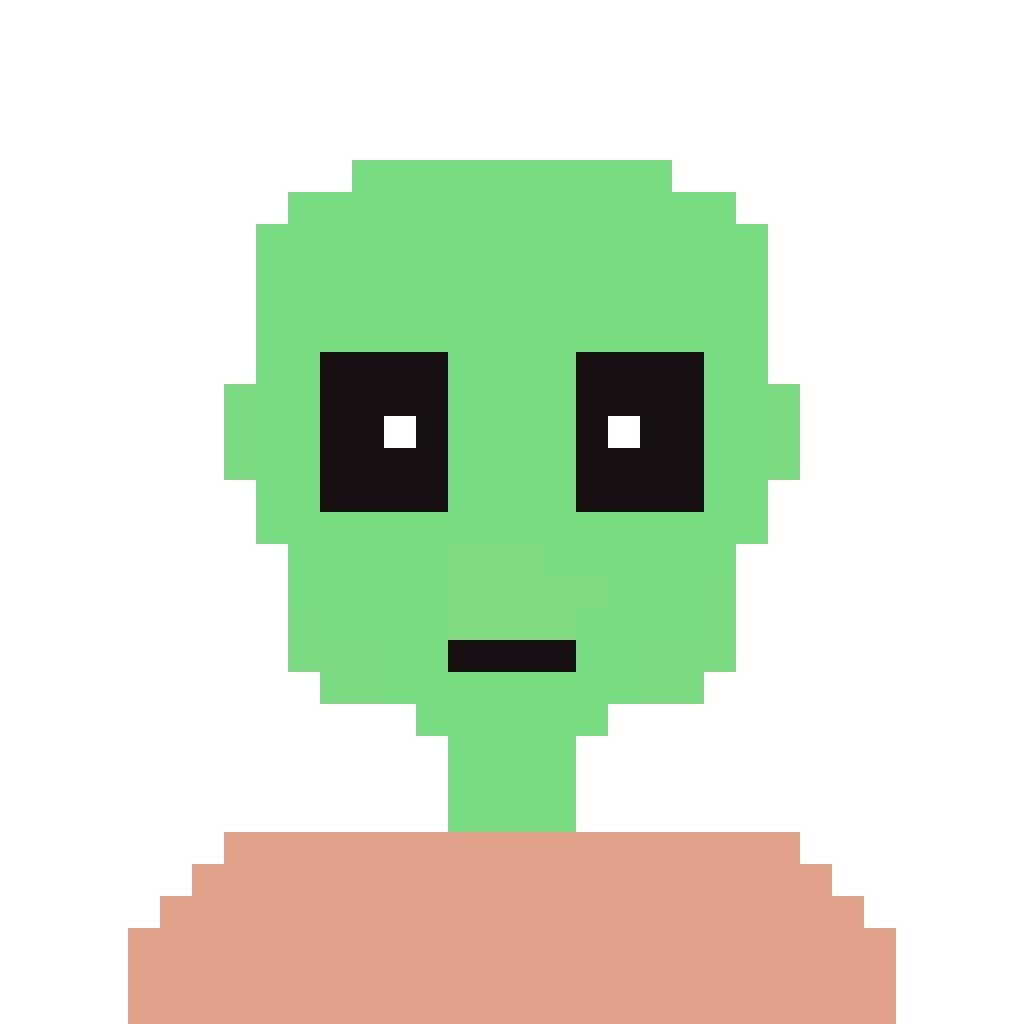
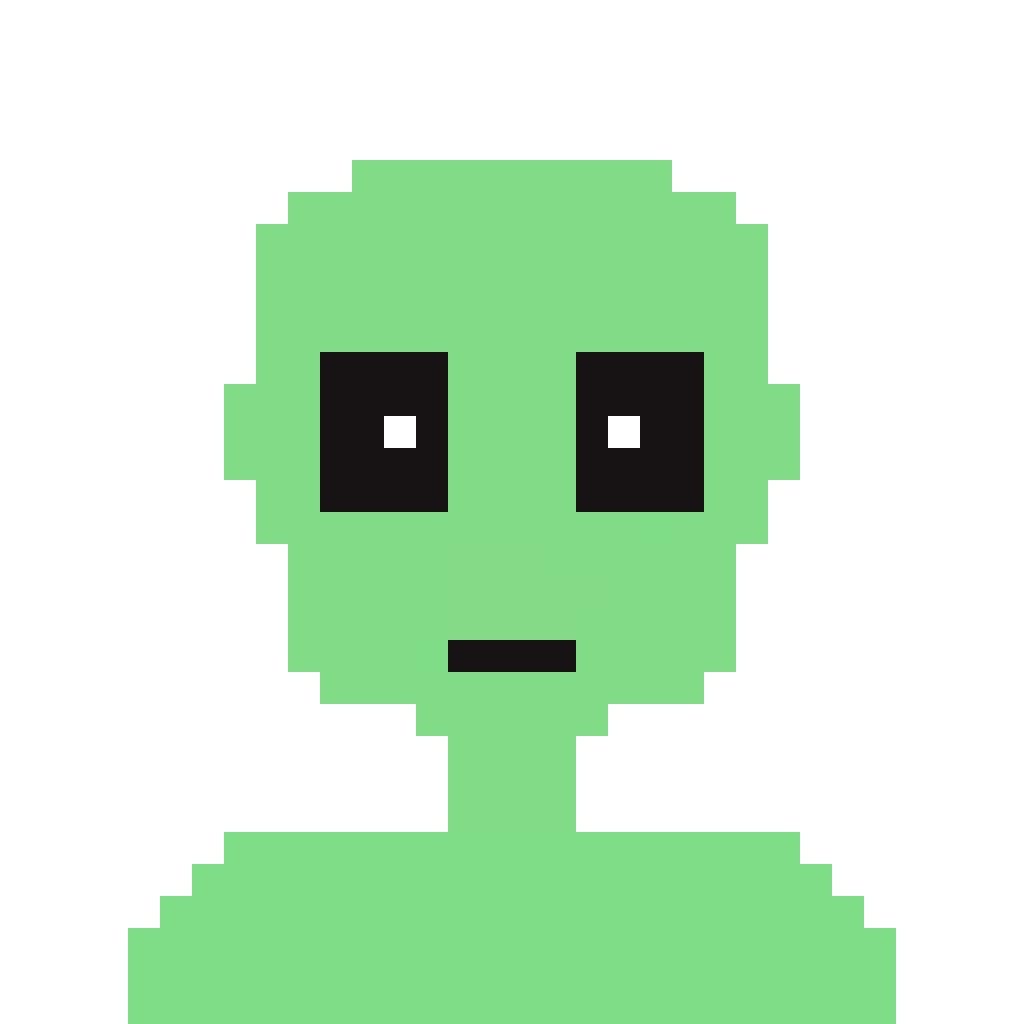
Add files via upload

Changed region(s): [[0.125, 0.8125, 0.875, 1.0]]

diff --git a/app/globals.css b/app/globals.css
@@ -23,11 +23,12 @@
 /* Pre-mint classified transmission. The complete post-mint site remains above and
    can be restored with NEXT_PUBLIC_SITE_PHASE=postmint. */
 .premint-site{min-height:100vh;background:radial-gradient(circle at 74% 9%,#1a1249 0,transparent 30%),radial-gradient(circle at 24% 72%,#052c2b 0,transparent 28%),#030611}.premint-header{height:70px;display:grid;grid-template-columns:1fr auto 1fr;align-items:center;padding:0 clamp(20px,4vw,64px);border-bottom:1px solid #1d2d45;background:#030611e8;position:relative;z-index:20}.premint-header>div{color:#71869d;font-size:9px;letter-spacing:.12em}.signal-dot{display:inline-block;width:7px;height:7px;margin-right:8px;background:var(--green);box-shadow:0 0 14px var(--green);animation:signal-pulse 1.1s steps(2) infinite}.premint-header>a:last-child{justify-self:end;color:var(--green);font-size:9px;font-weight:900;letter-spacing:.08em}
-.premint-hero{min-height:720px;max-width:1450px;margin:auto;padding:72px clamp(22px,6vw,88px) 88px;display:grid;grid-template-columns:1.06fr .94fr;gap:6vw;align-items:center;position:relative}.classified-grid{position:absolute;inset:0;opacity:.22;background-image:linear-gradient(#22dff310 1px,transparent 1px),linear-gradient(90deg,#22dff310 1px,transparent 1px),radial-gradient(#fff 1px,transparent 1px);background-size:56px 56px,56px 56px,139px 139px;mask-image:linear-gradient(to bottom,#000,transparent)}.premint-copy,.premint-agent{position:relative;z-index:2}.premint-copy .lead{max-width:590px}.primary.disabled{opacity:.46;cursor:not-allowed;box-shadow:none}.premint-agent{transform:rotate(.65deg)}.classified-stamp{position:absolute;z-index:8;right:-22px;top:30px;border:4px solid var(--red);color:var(--red);padding:8px 12px;font:900 clamp(13px,1.6vw,21px) Arial Black;letter-spacing:.06em;transform:rotate(7deg);background:#050914e8;text-shadow:0 0 12px #ff2c3966}
+.premint-hero{min-height:720px;max-width:1450px;margin:auto;padding:72px clamp(22px,6vw,88px) 88px;display:grid;grid-template-columns:1.06fr .94fr;gap:6vw;align-items:center;position:relative}.classified-grid{position:absolute;inset:0;opacity:.22;background-image:linear-gradient(#22dff310 1px,transparent 1px),linear-gradient(90deg,#22dff310 1px,transparent 1px),radial-gradient(#fff 1px,transparent 1px);background-size:56px 56px,56px 56px,139px 139px;mask-image:linear-gradient(to bottom,#000,transparent)}.premint-copy,.premint-agent{position:relative;z-index:2}.premint-copy .lead{max-width:590px}.primary.disabled{opacity:.46;cursor:not-allowed;box-shadow:none}.premint-agent{aspect-ratio:auto;transform:rotate(.65deg)}.premint-agent .broker-base{height:auto;aspect-ratio:1;object-fit:contain}.premint-agent .broker-reveal{object-fit:contain}
 .premint-access{max-width:1280px;margin:auto;padding:105px clamp(22px,5vw,62px)}.access-copy{text-align:center;max-width:800px;margin:0 auto 48px}.access-copy>p{color:var(--cyan);font-size:10px;letter-spacing:.15em}.access-copy h2{font:900 clamp(35px,5vw,63px)/.95 Arial Black;margin:14px 0;letter-spacing:-.055em}.access-copy h2 span{color:var(--green)}.access-copy small{color:#8192a6;font:14px/1.65 Arial}.access-grid{display:grid;grid-template-columns:.82fr 1.18fr;gap:22px;align-items:stretch}
 .wl-checker{min-height:450px;border:1px solid #24425c;background:linear-gradient(145deg,#081428,#050b17);padding:clamp(22px,4vw,42px);box-shadow:12px 12px 0 #071322;display:flex;flex-direction:column;justify-content:center;position:relative;overflow:hidden}.wl-checker:before{content:"CLEARANCE";position:absolute;right:-14px;top:30px;color:#68ff140c;font:900 66px Arial Black;transform:rotate(90deg)}.checker-heading{display:flex;justify-content:space-between;align-items:center;border-bottom:1px solid #263d56;padding-bottom:15px;margin-bottom:36px;font-size:10px;letter-spacing:.1em}.checker-heading span{color:var(--cyan)}.checker-heading b{color:var(--green)}.wl-checker.offline .checker-heading b{color:var(--red)}.wl-checker label{color:#657b92;font-size:9px;letter-spacing:.12em;margin-bottom:9px}.checker-input{display:grid;grid-template-columns:1fr auto}.checker-input input{min-width:0;background:#020711;border:1px solid #29445e;color:#eafaff;padding:16px 14px;outline:none;font:12px "Courier New"}.checker-input input:focus{border-color:var(--cyan);box-shadow:0 0 0 2px #22dff31c}.checker-input button{border:0;background:var(--green);color:#061204;font-size:9px;font-weight:900;padding:0 16px;cursor:pointer}.wl-checker output{display:block;min-height:54px;margin-top:17px;color:#71859c;font-size:9px;line-height:1.55}.wl-checker.approved output{color:var(--green)}.wl-checker.not-found output,.wl-checker.invalid output,.wl-checker.offline output{color:#ff6d76}
 .social-orbit{min-height:450px;border:1px solid #24425c;background:radial-gradient(circle at 50% 50%,#173b31 0,#081425 29%,#030712 72%);position:relative;overflow:hidden}.orbit-stars{position:absolute;inset:0;opacity:.45;background-image:radial-gradient(#fff 1px,transparent 1px),radial-gradient(#22dff3 1px,transparent 1px);background-size:63px 63px,107px 107px;background-position:2px 7px,29px 42px}.social-ring{position:absolute;left:50%;top:48%;border:1px solid #6ba5c9;border-radius:50%;transform:translate(-50%,-50%) rotate(-12deg);opacity:.65}.ring-a{width:58%;height:39%}.ring-b{width:88%;height:64%;transform:translate(-50%,-50%) rotate(17deg)}.mothership-core{position:absolute;left:50%;top:48%;width:126px;height:126px;transform:translate(-50%,-50%);border-radius:50%;background:radial-gradient(circle at 35% 30%,#e9ff86,#68ff14 30%,#168409 70%,#061b0b);box-shadow:0 0 18px var(--green),0 0 70px #68ff1459;border:2px solid #baff94;display:grid;place-content:center;justify-items:center;color:#061204;z-index:3}.mothership-core span{font:900 33px Arial Black}.mothership-core small{font:900 9px Arial Black}.mothership-core i{position:absolute;top:137px;color:var(--green);font:7px "Courier New";font-style:normal;white-space:nowrap;letter-spacing:.1em}.social-planet{position:absolute;z-index:5;border-radius:50%;display:grid;place-content:center;justify-items:center;transition:transform .2s,filter .2s;box-shadow:0 0 24px currentColor;border:2px solid #ffffff55;color:#fff}.social-planet:hover,.social-planet:focus-visible{transform:translate(-50%,-50%) scale(1.13);filter:brightness(1.2);outline:2px solid white;outline-offset:5px}.social-planet svg{width:26px;height:26px;fill:none;stroke:currentColor;stroke-width:2;stroke-linecap:round;stroke-linejoin:round}.social-planet span{font:900 8px Arial Black;margin-top:5px}.social-planet b{position:absolute;top:calc(100% + 8px);font-size:7px;letter-spacing:.1em;color:#b9c9d9}.social-x{left:18%;top:29%;width:76px;height:76px;background:linear-gradient(145deg,#26334b,#05070b);color:#fff}.social-discord{left:81%;top:34%;width:88px;height:88px;background:linear-gradient(145deg,#a180ff,#5038b8);color:#fff}.social-opensea{left:26%;top:79%;width:82px;height:82px;background:linear-gradient(145deg,#3ab7ff,#1567ba);color:#fff}.social-orbit>p{position:absolute;left:0;right:0;bottom:14px;text-align:center;color:#536a82;font-size:7px;letter-spacing:.12em}
 .locked-files{max-width:1160px;margin:0 auto 110px;padding:0 clamp(22px,4vw,50px);display:grid;grid-template-columns:repeat(3,1fr);gap:14px}.locked-files article{min-height:122px;border:1px solid #1b2d46;background:#071020;display:grid;grid-template-columns:auto 1fr auto;gap:15px;align-items:center;padding:19px;position:relative;overflow:hidden}.locked-files article:after{content:"";position:absolute;inset:auto 0 0;height:3px;background:linear-gradient(90deg,var(--red),transparent)}.locked-files article>span{font:900 27px Arial Black;color:#243851}.locked-files small{color:var(--red);font-size:7px;letter-spacing:.1em}.locked-files h3{font:900 13px Arial Black;margin:7px 0 0}.locked-files b{color:#6a7d92;font-size:8px;border:1px solid #273b53;padding:7px}.premint-footer{background:#030611}.premint-footer p{color:#667a91}
-.wl-form-backdrop{position:fixed;inset:0;z-index:120;background:#01040bed;display:grid;place-items:center;padding:18px;backdrop-filter:blur(9px)}.wl-form-modal{width:min(780px,100%);height:min(88vh,900px);display:grid;grid-template-rows:auto 1fr auto;background:#071020;border:1px solid #2c5269;box-shadow:14px 14px 0 #11243a}.wl-form-modal>header{display:flex;justify-content:space-between;align-items:center;padding:17px 20px;border-bottom:1px solid #203950;background:#081629}.wl-form-modal>header div{display:grid;gap:4px}.wl-form-modal>header small{color:var(--cyan);font-size:7px;letter-spacing:.12em}.wl-form-modal>header strong{font:900 15px Arial Black;color:var(--green)}.wl-form-modal>header button{width:38px;height:38px;background:transparent;border:1px solid #38526c;color:#fff;font-size:25px;cursor:pointer}.wl-form-modal iframe{width:100%;height:100%;border:0;background:#fff}.wl-form-modal>footer{min-height:48px;padding:0 18px;display:flex;align-items:center;justify-content:space-between;gap:14px;background:#050b17;color:#60748a;font-size:8px}.wl-form-modal>footer a{color:var(--green);font-weight:900}
+.wl-form-backdrop{position:fixed;inset:0;z-index:120;background:#01040bed;display:grid;place-items:center;padding:18px;backdrop-filter:blur(9px)}.wl-form-modal{width:min(680px,100%);max-height:92vh;overflow:auto;background:#071020;border:1px solid #2c5269;box-shadow:14px 14px 0 #11243a}.wl-form-modal>header{display:flex;justify-content:space-between;align-items:center;padding:17px 20px;border-bottom:1px solid #203950;background:#081629;position:sticky;top:0;z-index:2}.wl-form-modal>header div{display:grid;gap:4px}.wl-form-modal>header small{color:var(--cyan);font-size:7px;letter-spacing:.12em}.wl-form-modal>header strong{font:900 15px Arial Black;color:var(--green)}.wl-form-modal>header button{width:38px;height:38px;background:transparent;border:1px solid #38526c;color:#fff;font-size:25px;cursor:pointer}.wl-form-modal>form{padding:clamp(24px,5vw,44px);display:grid;gap:15px}.wl-form-modal>form>label:not(.follow-confirm){color:#7f94aa;font-size:9px;letter-spacing:.1em;margin-top:8px}.wl-form-modal>form>input{width:100%;background:#020711;border:1px solid #29445e;color:#eafaff;padding:16px 14px;outline:none;font:12px "Courier New"}.wl-form-modal>form>input:focus{border-color:var(--cyan);box-shadow:0 0 0 2px #22dff31c}.honeypot{display:none}.mission-step{display:grid;grid-template-columns:auto 1fr auto;gap:14px;align-items:center;border:1px solid #29445e;background:#09162a;padding:15px}.mission-step>span{color:#314760;font:900 24px Arial Black}.mission-step>div{display:grid;gap:5px}.mission-step small{color:var(--cyan);font-size:7px}.mission-step strong{font:900 11px Arial Black}.mission-step>a{background:#101b2c;border:1px solid #40536c;padding:10px;color:var(--green);font-size:8px;font-weight:900}.follow-confirm{display:flex;align-items:center;gap:11px;color:#b6c5d4;font-size:9px;line-height:1.4;cursor:pointer}.follow-confirm input{width:18px;height:18px;accent-color:var(--green)}.submit-clearance,.wl-success button{border:0;background:var(--green);color:#061204;padding:16px;font-size:10px;font-weight:900;cursor:pointer;box-shadow:5px 5px 0 #1d5b0b}.submit-clearance:disabled{opacity:.55}.wl-form-modal output{min-height:17px;color:#71859c;font-size:8px;line-height:1.45}.wl-form-modal output.invalid,.wl-form-modal output.unconfirmed,.wl-form-modal output.error{color:#ff6d76}.wl-success{min-height:390px;padding:50px 25px;display:grid;place-content:center;justify-items:center;text-align:center}.wl-success>span{display:grid;place-items:center;width:72px;height:72px;border:2px solid var(--green);border-radius:50%;color:var(--green);font-size:34px;box-shadow:0 0 25px #68ff144d}.wl-success h3{font:900 23px Arial Black;color:var(--green);margin:22px 0 8px}.wl-success p{max-width:430px;color:#8fa1b5;font-size:10px;line-height:1.6}.wl-success button{margin-top:20px}
 @media(max-width:900px){.premint-header{grid-template-columns:1fr auto}.premint-header>div{display:none}.premint-hero{grid-template-columns:1fr}.premint-agent{max-width:620px;width:100%;justify-self:center}.access-grid{grid-template-columns:1fr}.social-orbit{min-height:500px}.locked-files{grid-template-columns:1fr}}
-@media(max-width:600px){.premint-header>a:last-child{font-size:8px}.premint-hero{padding:52px 18px 70px}.classified-stamp{right:-3px;top:18px;border-width:3px}.premint-access{padding:78px 18px}.wl-checker{min-height:360px}.checker-input{grid-template-columns:1fr}.checker-input button{padding:14px}.social-orbit{min-height:390px}.mothership-core{width:94px;height:94px}.mothership-core span{font-size:26px}.mothership-core i{top:104px}.social-x{left:17%;top:28%;width:60px;height:60px}.social-discord{left:82%;top:33%;width:68px;height:68px}.social-opensea{left:24%;top:76%;width:64px;height:64px}.social-planet svg{width:20px;height:20px}.locked-files{margin-bottom:75px;padding:0 18px}}
+@media(max-width:600px){.premint-header>a:last-child{font-size:8px}.premint-hero{padding:52px 18px 70px}.premint-agent{width:100%;padding:8px;transform:none;overflow:visible}.premint-agent .broker-reveal{inset:8px;width:calc(100% - 16px);height:calc(100% - 16px)}.premint-agent .scan-line{left:8px;right:8px}.premint-access{padding:78px 18px}.wl-checker{min-height:360px}.checker-input{grid-template-columns:1fr}.checker-input button{padding:14px}.social-orbit{min-height:390px}.mothership-core{width:94px;height:94px}.mothership-core span{font-size:26px}.mothership-core i{top:104px}.social-x{left:17%;top:28%;width:60px;height:60px}.social-discord{left:82%;top:33%;width:68px;height:68px}.social-opensea{left:24%;top:76%;width:64px;height:64px}.social-planet svg{width:20px;height:20px}.locked-files{margin-bottom:75px;padding:0 18px}}
+@media(max-width:600px){.wl-form-backdrop{padding:8px}.wl-form-modal{max-height:96vh;box-shadow:6px 6px 0 #11243a}.wl-form-modal>header{padding:13px 14px}.wl-form-modal>form{padding:20px 15px}.mission-step{grid-template-columns:auto 1fr;padding:12px}.mission-step>a{grid-column:1/3;text-align:center}.wl-success{min-height:350px}.wl-success h3{font-size:19px}}

diff --git a/app/page.tsx b/app/page.tsx
@@ -2,7 +2,6 @@
 
 import { useCallback, useEffect, useRef, useState } from "react";
 
-const WL_FORM_URL = process.env.NEXT_PUBLIC_WL_FORM_URL || "";
 const socialLinks = {
   x: "https://x.com/spacebrokers_",
   discord: "https://discord.gg/2696H6XJH",
@@ -135,8 +134,9 @@ function WhitelistChecker() {
     setState("checking");
     try {
       const response = await fetch("/wl-wallets.json", { cache: "no-store" });
+      if (!response.ok) throw new Error("Clearance database unavailable");
       const wallets: string[] = await response.json();
-      if (!wallets.length) { setState("offline"); return; }
+      if (!Array.isArray(wallets)) throw new Error("Invalid clearance database");
       setState(wallets.map((item) => item.toLowerCase()).includes(normalized) ? "approved" : "not-found");
     } catch { setState("offline"); }
   };
@@ -153,6 +153,53 @@ function WhitelistChecker() {
     <div className="checker-input"><input id="wallet-check" value={wallet} onChange={(event) => { setWallet(event.target.value); setState("idle"); }} placeholder="0x…" autoComplete="off" spellCheck={false} /><button type="submit">RUN CHECK</button></div>
     <output aria-live="polite">{result}</output>
   </form>;
+}
+
+type ApplicationState = "idle" | "sending" | "success" | "invalid" | "unconfirmed" | "error";
+
+function WhitelistApplication({ onClose }: { onClose: () => void }) {
+  const [wallet, setWallet] = useState("");
+  const [confirmed, setConfirmed] = useState(false);
+  const [state, setState] = useState<ApplicationState>("idle");
+
+  const submitApplication = async (event: React.FormEvent<HTMLFormElement>) => {
+    event.preventDefault();
+    const normalized = wallet.trim().toLowerCase();
+    if (!/^0x[a-f0-9]{40}$/.test(normalized)) { setState("invalid"); return; }
+    if (!confirmed) { setState("unconfirmed"); return; }
+    setState("sending");
+    try {
+      const body = new URLSearchParams({ "form-name": "space-brokers-wl", wallet: normalized, follow_confirmed: "yes" });
+      const response = await fetch("/", { method: "POST", headers: { "Content-Type": "application/x-www-form-urlencoded" }, body: body.toString() });
+      if (!response.ok) throw new Error("Submission failed");
+      setState("success");
+    } catch { setState("error"); }
+  };
+
+  const message = {
+    idle: "ONE WALLET PER AGENT. CLEARANCE IS REVIEWED BEFORE APPROVAL.",
+    sending: "TRANSMITTING WALLET TO MISSION CONTROL…",
+    success: "TRANSMISSION RECEIVED // RETURN LATER TO CHECK CLEARANCE.",
+    invalid: "INVALID WALLET // ENTER A COMPLETE 0x ADDRESS.",
+    unconfirmed: "CONFIRM THE X MISSION BEFORE TRANSMITTING.",
+    error: "TRANSMISSION FAILED // PLEASE TRY AGAIN.",
+  }[state];
+
+  return <div className="wl-form-backdrop" role="dialog" aria-modal="true" aria-label="Whitelist application">
+    <section className="wl-form-modal">
+      <header><div><small>SECURE INTAKE // NETLIFY FORMS</small><strong>REQUEST WL CLEARANCE</strong></div><button type="button" onClick={onClose} aria-label="Close whitelist form">×</button></header>
+      {state === "success" ? <div className="wl-success"><span>✓</span><h3>APPLICATION RECEIVED</h3><p>{message}</p><button type="button" onClick={onClose}>RETURN TO MOTHERSHIP</button></div> : <form name="space-brokers-wl" method="POST" data-netlify="true" data-netlify-honeypot="bot-field" onSubmit={submitApplication}>
+        <input type="hidden" name="form-name" value="space-brokers-wl" />
+        <p className="honeypot"><label>Do not fill this out: <input name="bot-field" /></label></p>
+        <div className="mission-step"><span>01</span><div><small>REQUIRED MISSION</small><strong>FOLLOW @SPACEBROKERS_ ON X</strong></div><a href={socialLinks.x} target="_blank" rel="noreferrer">OPEN X ↗</a></div>
+        <label htmlFor="wallet-application">02 // EVM WALLET ADDRESS</label>
+        <input id="wallet-application" name="wallet" value={wallet} onChange={(event) => { setWallet(event.target.value); setState("idle"); }} placeholder="0x…" autoComplete="off" spellCheck={false} required />
+        <label className="follow-confirm"><input type="checkbox" name="follow_confirmed" value="yes" checked={confirmed} onChange={(event) => { setConfirmed(event.target.checked); setState("idle"); }} /><span>I CONFIRM I FOLLOW @SPACEBROKERS_ ON X</span></label>
+        <button className="submit-clearance" type="submit" disabled={state === "sending"}>{state === "sending" ? "TRANSMITTING…" : "SUBMIT FOR CLEARANCE →"}</button>
+        <output className={state} aria-live="polite">{message}</output>
+      </form>}
+    </section>
+  </div>;
 }
 
 function PreMintSite() {
@@ -172,13 +219,12 @@ function PreMintSite() {
         <h1>2,048 AGENTS.<br /><em>ONE MOTHERSHIP.</em></h1>
         <p className="lead">Something is moving beyond the market. Secure clearance before the files are opened.</p>
         <div className="hero-actions">
-          {WL_FORM_URL ? <button className="primary" type="button" onClick={() => setFormOpen(true)}>REQUEST WL CLEARANCE ↗</button> : <span className="primary disabled">WL FORM LINK PENDING</span>}
+          <button className="primary" type="button" onClick={() => setFormOpen(true)}>REQUEST WL CLEARANCE ↗</button>
           <a className="secondary" href="#wl-check">CHECK WL STATUS ↓</a>
         </div>
         <div className="hero-stats"><div><strong>2,048</strong><span>AGENTS</span></div><div><strong>$2</strong><span>MINT PRICE</span></div><div><strong>3</strong><span>MAX / WALLET</span></div></div>
       </div>
       <div className="premint-agent hero-art">
-        <div className="classified-stamp">IDENTITY CLASSIFIED</div>
         <img className="broker-base" src="/space-broker-base.png" alt="Classified pixel alien Space Broker" />
         <img className="broker-reveal" src="/space-broker-reveal.png" alt="" aria-hidden="true" />
         <div className="scan-line" aria-hidden="true" />
@@ -200,13 +246,7 @@ function PreMintSite() {
 
     <footer className="premint-footer"><a className="mini-brand" href="#top"><span>SPACE</span><b>BROKERS</b></a><p>Follow the space economy. The truth is in the files.</p><div><a href={socialLinks.x} target="_blank" rel="noreferrer">X ↗</a><a href={socialLinks.discord} target="_blank" rel="noreferrer">DISCORD ↗</a><a href={socialLinks.opensea} target="_blank" rel="noreferrer">OPENSEA ↗</a></div></footer>
     <AudioToggle />
-    {formOpen && <div className="wl-form-backdrop" role="dialog" aria-modal="true" aria-label="Whitelist application">
-      <section className="wl-form-modal">
-        <header><div><small>SECURE INTAKE // EXTERNAL FORM</small><strong>REQUEST WL CLEARANCE</strong></div><button type="button" onClick={() => setFormOpen(false)} aria-label="Close whitelist form">×</button></header>
-        <iframe src={WL_FORM_URL} title="Space Brokers whitelist application" loading="lazy" />
-        <footer><span>FORM NOT LOADING?</span><a href={WL_FORM_URL} target="_blank" rel="noreferrer">OPEN IN NEW TAB ↗</a></footer>
-      </section>
-    </div>}
+    {formOpen && <WhitelistApplication onClose={() => setFormOpen(false)} />}
   </main>;
 }
 

diff --git a/public/netlify-forms.html b/public/netlify-forms.html
@@ -1,0 +1,12 @@
+<!doctype html>
+<html lang="en">
+<head><meta charset="utf-8"><title>Space Brokers Forms</title></head>
+<body>
+  <form name="space-brokers-wl" method="POST" data-netlify="true" netlify-honeypot="bot-field" hidden>
+    <input type="hidden" name="form-name" value="space-brokers-wl">
+    <input name="bot-field">
+    <input name="wallet">
+    <input name="follow_confirmed">
+  </form>
+</body>
+</html>

diff --git a/PREMINT-SETUP.md b/PREMINT-SETUP.md
@@ -2,11 +2,11 @@
 
 The pre-mint classified landing page is now the default. The complete original site is still in the project and has not been deleted.
 
-## Add the whitelist form
+## Whitelist submissions
 
-In Netlify, add the environment variable `NEXT_PUBLIC_WL_FORM_URL` with the public Google Form URL, then redeploy. Use the Google Forms embed URL where possible (`viewform?embedded=true`). The form opens inside the Space Brokers site and also offers an external-tab fallback.
+The whitelist application is a native Netlify Form named `space-brokers-wl`. It collects one EVM wallet address and a confirmation that the applicant followed the Space Brokers X account. No external form URL or environment variable is required.
 
-Recommended form fields: X username, Discord username, EVM wallet address, and an agreement checkbox confirming the required follow/like/repost mission. Do not make the response spreadsheet public.
+After deployment, open the site in Netlify and select **Forms** to view or export submissions. The follow confirmation is self-reported; collecting only a wallet address cannot independently verify an X account.
 
 ## Publish whitelist results
 
